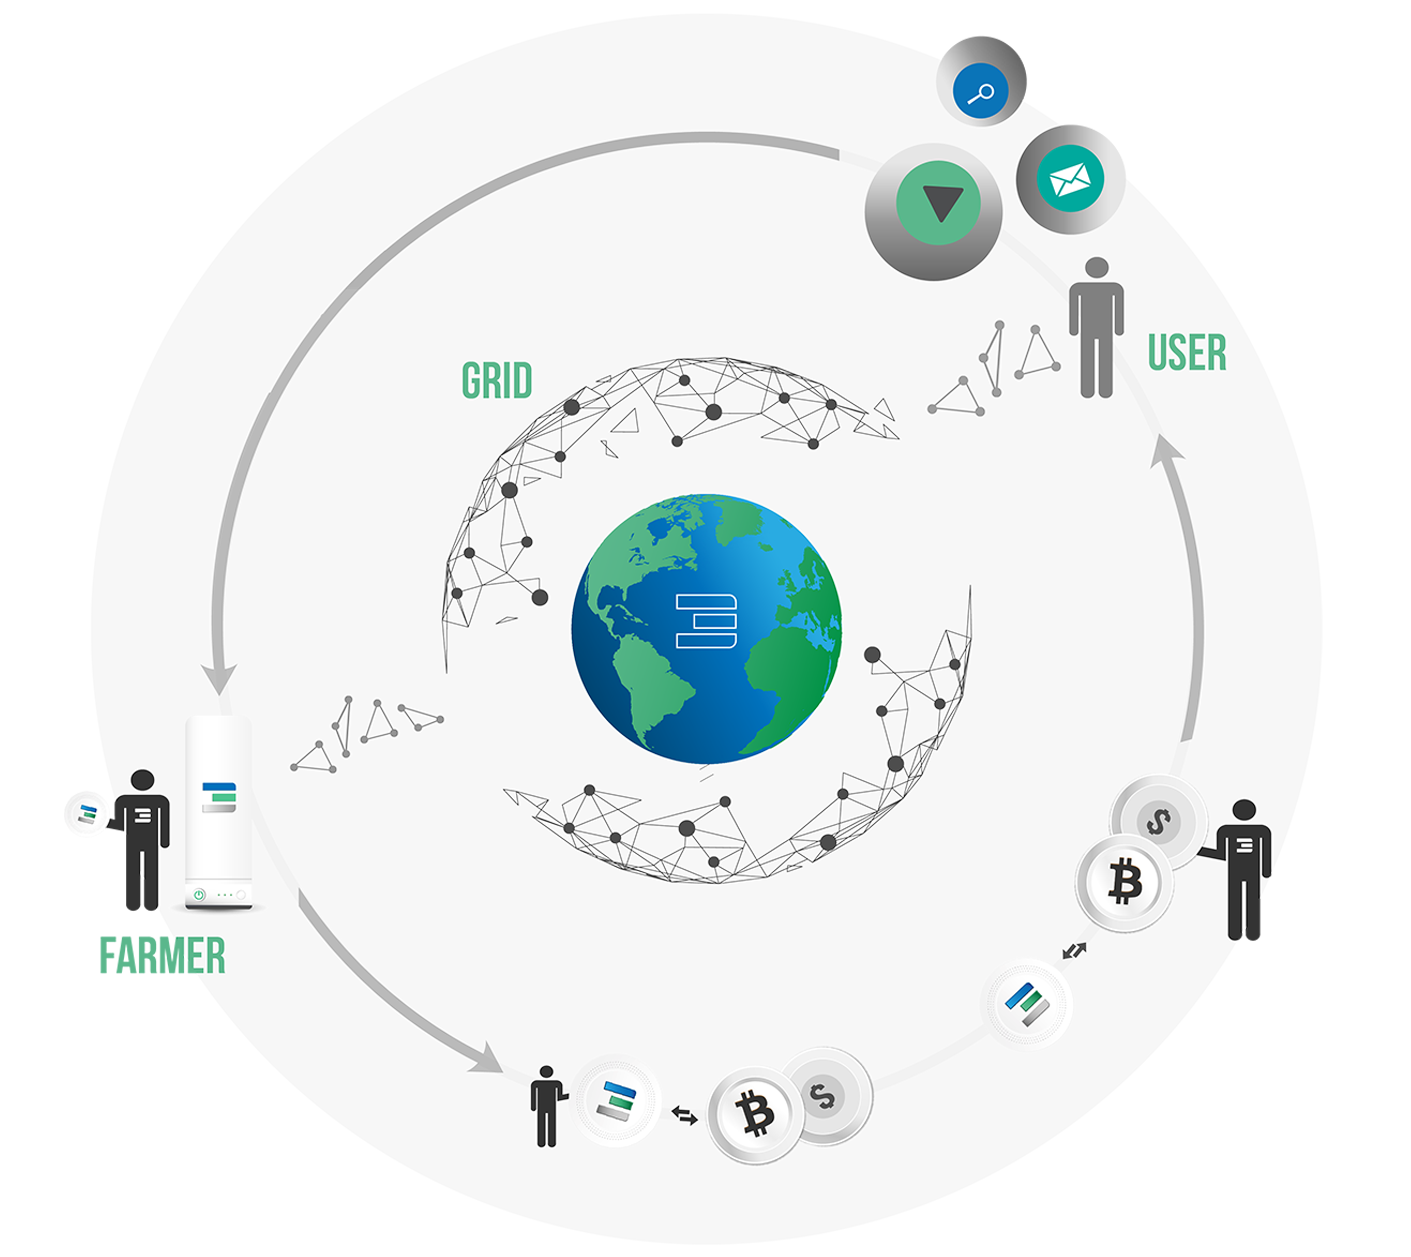
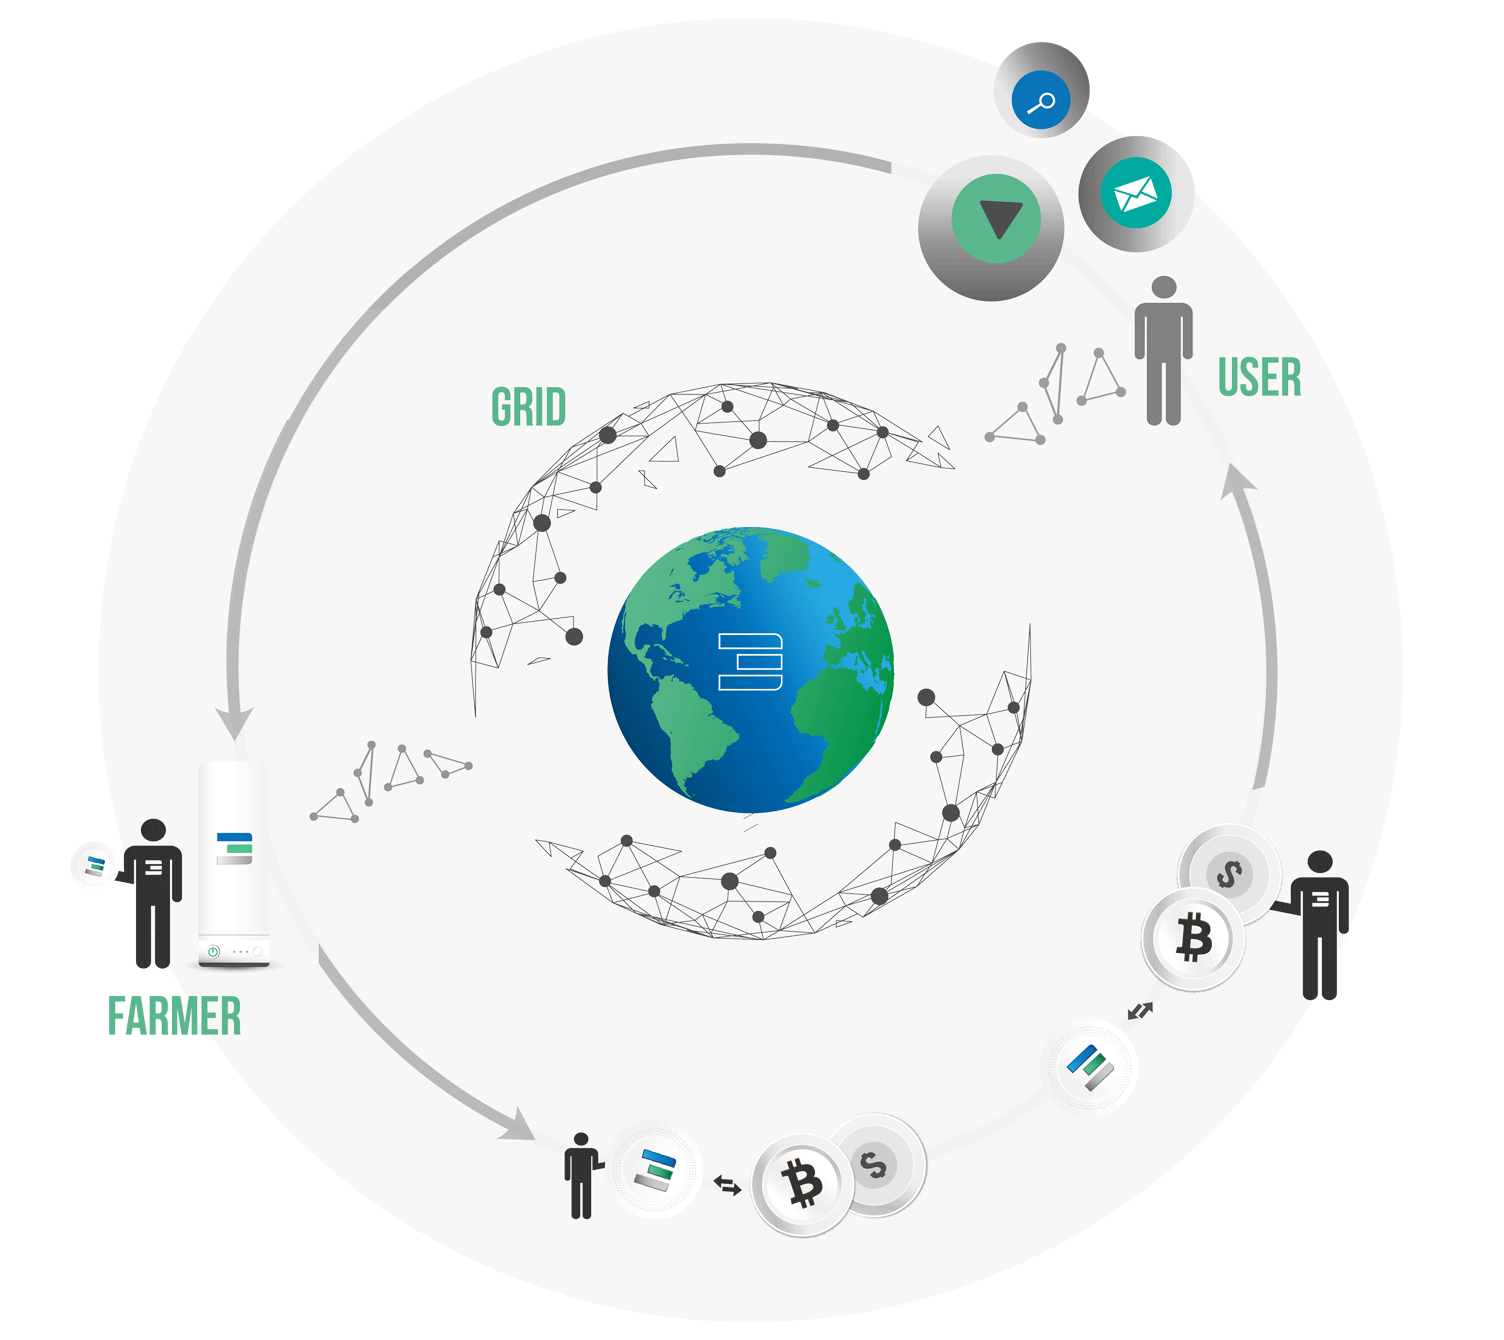
fix token img

diff --git a/html/tokens.html b/html/tokens.html
@@ -165,7 +165,7 @@
               </div>
             </div>
             <div class="row">
-              <div class="order-md-2 col-md-12"><img class="d-block img-fluid mx-auto pb-4" src="assets/Token_update/how_it_work2.png"></div>
+              <div class="order-md-2 col-md-12"><img class="d-block img-fluid mx-auto pb-4 how_it_work" src="assets/Token_update/how_it_work.png"></div>
             </div>
           </div>
         </div>

diff --git a/html/css/custom.css b/html/css/custom.css
@@ -591,6 +591,11 @@ a:hover {
     padding: 10em 0;
 }
 
+.how_it_work{
+  width: 80%;
+}
+
+
 .token_growth {
     background: #f2f2f2;
 }
@@ -4645,6 +4650,10 @@ margin-right: 1.5rem !important;
         overflow-x: auto !important;
         width: 100% !important;
     }
+    .how_it_work{
+      width: 100%;
+    }
+
 }
 
 @media screen and (max-width:375px) {
